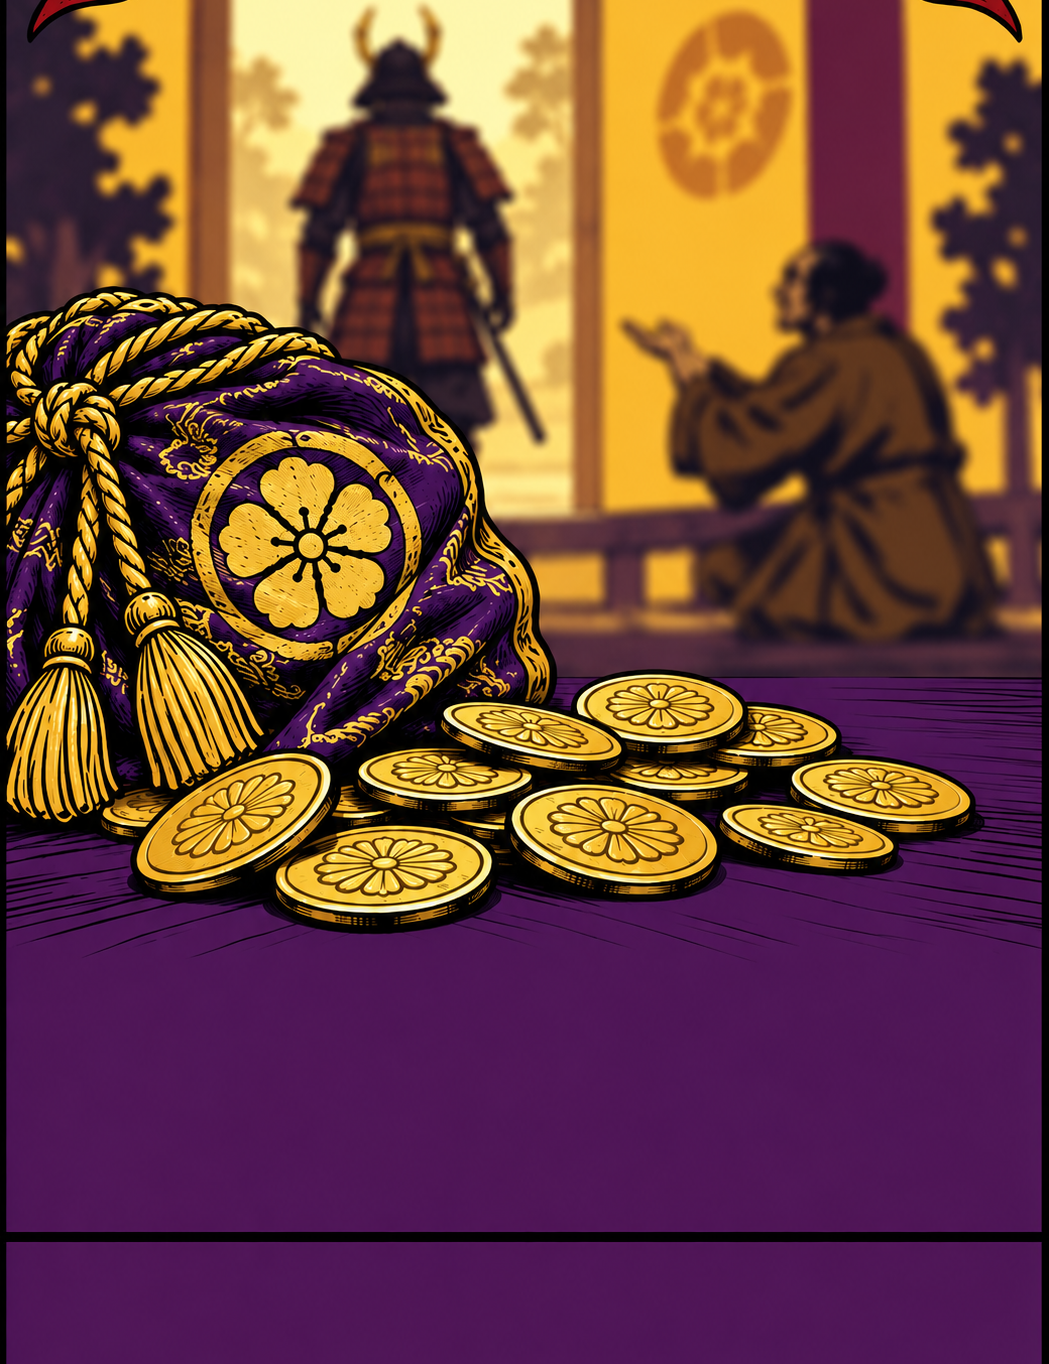
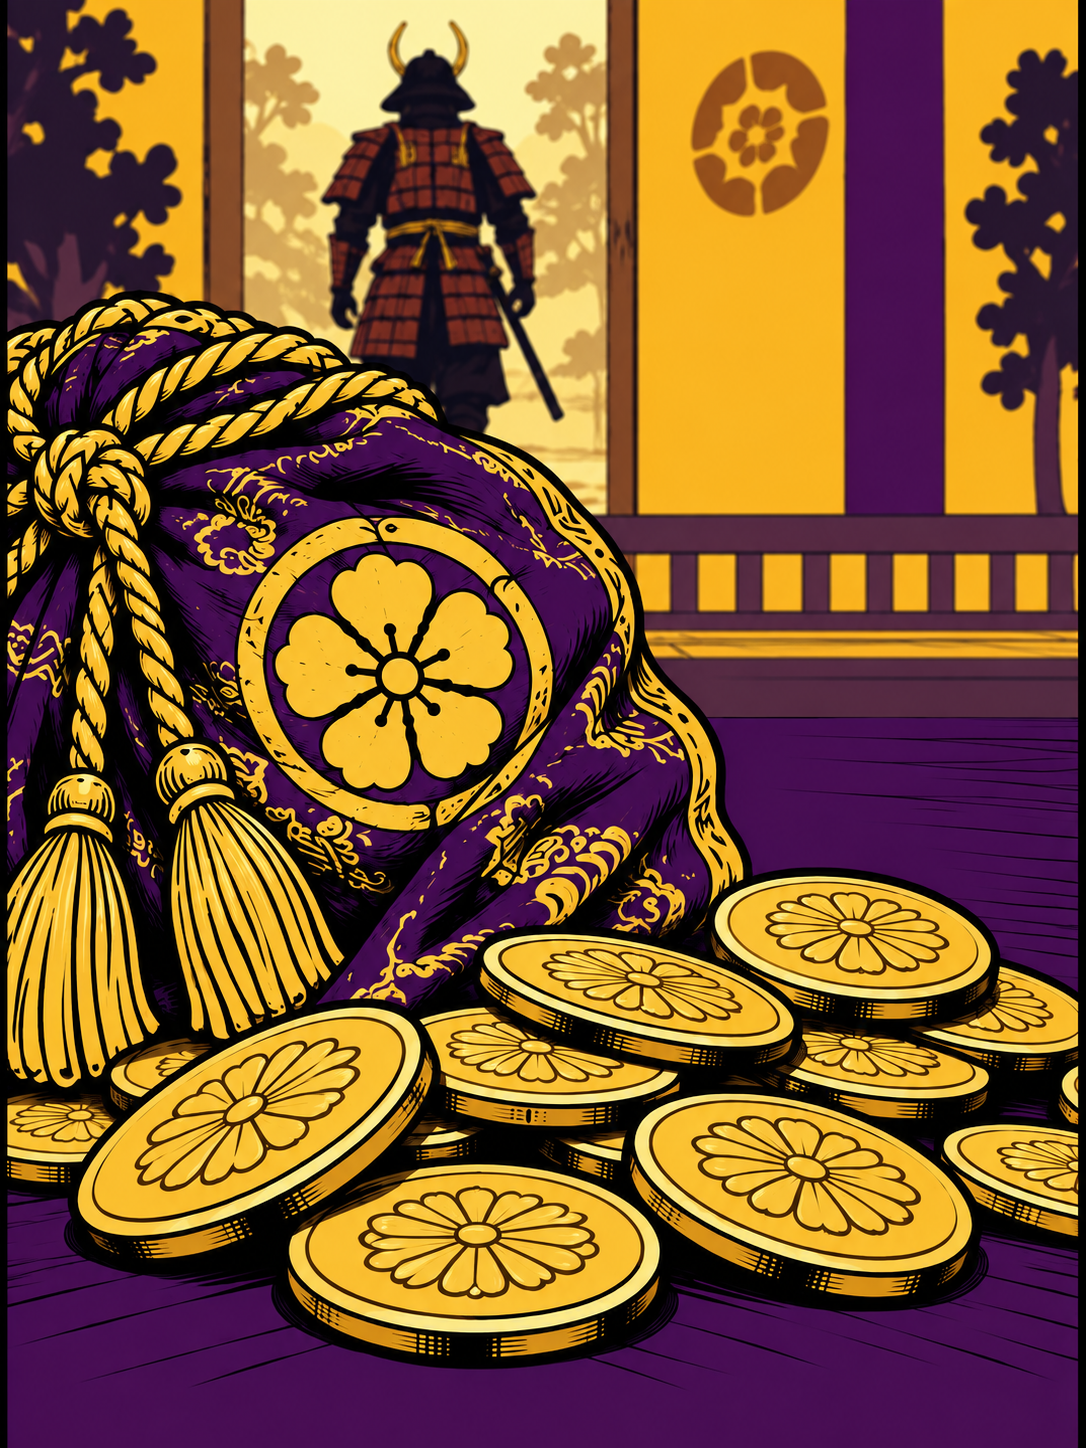
Вайро #1126: арт перерисован — без баннера и пустого низа, проситель убран; TODO по цене откупа
Прежняя укладка резала баннер кропом и добивала низ зеркалом пола — вышло много пустого места; прежний файл в cards/obsolete/card_1126_wairo_v1.png. Новый арт перерисован художником целиком: мешочек и монеты крупно до низа кадра, самурай спиной уходит из дома, кланяющегося просителя на фоне больше нет. 1086×1448, светлое поле 33.3%, контраст теней 4.5 (порог 6 — пока не дотягивает).

В тексте карты TODO: цена откупа (по карте за рану или твёрдые две) и не мертва ли карта против самураев, которые вправе отказаться от взятки.

diff --git a/js/cards.js b/js/cards.js
@@ -2158,8 +2158,8 @@ const CARDS = [
     group: "intervention",
     icons: ["rolectx"],
     tags: ["draft", "toPrint"],
-    desc: "Сыграйте, когда атакуют вас или вашего {союзника}: отдайте атакующему в открытую по карте с руки за каждую рану этой атаки, но не меньше одной. Атака отменяется, попытка сгорает. Откупиться можно даже от атаки, от которой нельзя защититься.[NL]{Самурай} вправе отказаться от взятки — тогда карты остаются у вас.",
-    enDesc: "Play when you or an {ally} are attacked: openly give the attacker one card from your hand per wound of this attack, at least one. The attack is cancelled and the attempt is used up. You can buy off even an attack that cannot be defended.[NL]A {Samurai} may refuse the bribe — then you keep the cards.",
+    desc: "Сыграйте, когда атакуют вас или вашего {союзника}: отдайте атакующему в открытую по карте с руки за каждую рану этой атаки, но не меньше одной. Атака отменяется, попытка сгорает. Откупиться можно даже от атаки, от которой нельзя защититься.[NL]{Самурай} вправе отказаться от взятки — тогда карты остаются у вас. TODO: цена откупа — по карте за рану или твёрдые две карты, решить на плейтесте. Проверить, не мёртвая ли карта против самураев: они вправе отказаться от взятки (№6).",
+    enDesc: "Play when you or an {ally} are attacked: openly give the attacker one card from your hand per wound of this attack, at least one. The attack is cancelled and the attempt is used up. You can buy off even an attack that cannot be defended.[NL]A {Samurai} may refuse the bribe — then you keep the cards. TODO: bribe price — one card per wound or a flat two cards, settle in playtest. Check the card is not dead against Samurai, who may refuse the bribe (rule 6).",
     img: "cards/card_1126_wairo.png"
   },
   {
